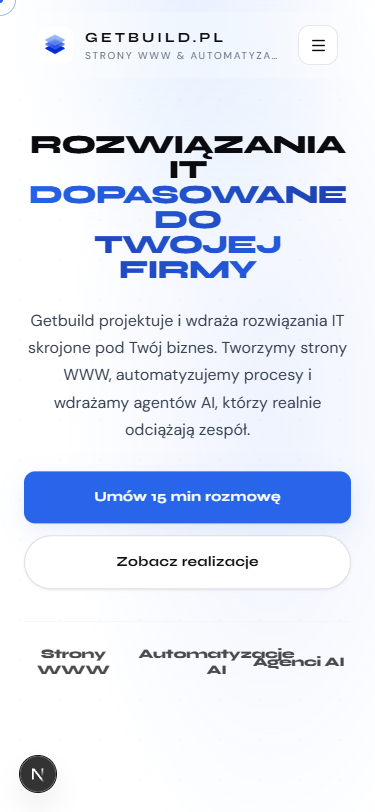
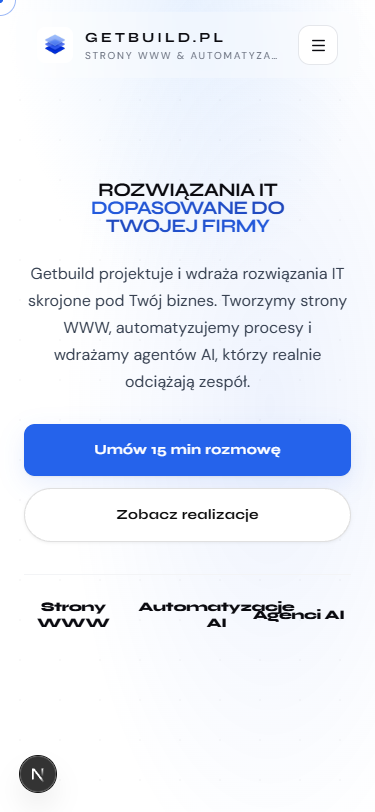
dsds

diff --git a/components/Hero.tsx b/components/Hero.tsx
@@ -27,8 +27,8 @@ export default function Hero() {
     setIsMounted(true)
   }, [])
 
-  const cardY = useTransform(scrollYProgress, [0, 0.5], ['100vh', '67vh'])
-  const cardYMobile = useTransform(scrollYProgress, [0, 0.5], ['100vh', '72vh'])
+  const cardY = useTransform(scrollYProgress, [0, 0.5], ['100vh', '45vh'])
+  const cardYMobile = useTransform(scrollYProgress, [0, 0.5], ['100vh', '50vh'])
   const titleOpacity = useTransform(scrollYProgress, [0.2, 0.5], [1, 0.6])
 
   const handleContactClick = (event: MouseEvent<HTMLAnchorElement>) => {
@@ -70,7 +70,7 @@ export default function Hero() {
         <div className="w-full text-center">
           <h1
             className="font-sans uppercase leading-[0.95] tracking-[-0.04em] lg:hidden mx-auto"
-            style={{ fontFamily: 'var(--font-syne)', fontWeight: '900', fontSize: 'clamp(1.6rem, 7vw, 2.4rem)', maxWidth: '95vw' }}
+            style={{ fontFamily: 'var(--font-syne)', fontWeight: '700', fontSize: 'clamp(1.2rem, 5vw, 1.8rem)', maxWidth: '95vw' }}
           >
             {words.map(({ text, cls }, i) => (
               <motion.span
@@ -86,7 +86,7 @@ export default function Hero() {
           </h1>
           <h1
             className="font-sans uppercase leading-[0.95] tracking-[-0.04em] hidden lg:block mx-auto"
-            style={{ fontFamily: 'var(--font-syne)', fontWeight: '900', fontSize: 'clamp(1.8rem, 4.5vw, 3.8rem)', maxWidth: '95vw' }}
+            style={{ fontFamily: 'var(--font-syne)', fontWeight: '700', fontSize: 'clamp(1.4rem, 3.5vw, 2.8rem)', maxWidth: '95vw' }}
           >
             {words.map(({ text, cls }, i) => (
               <motion.span